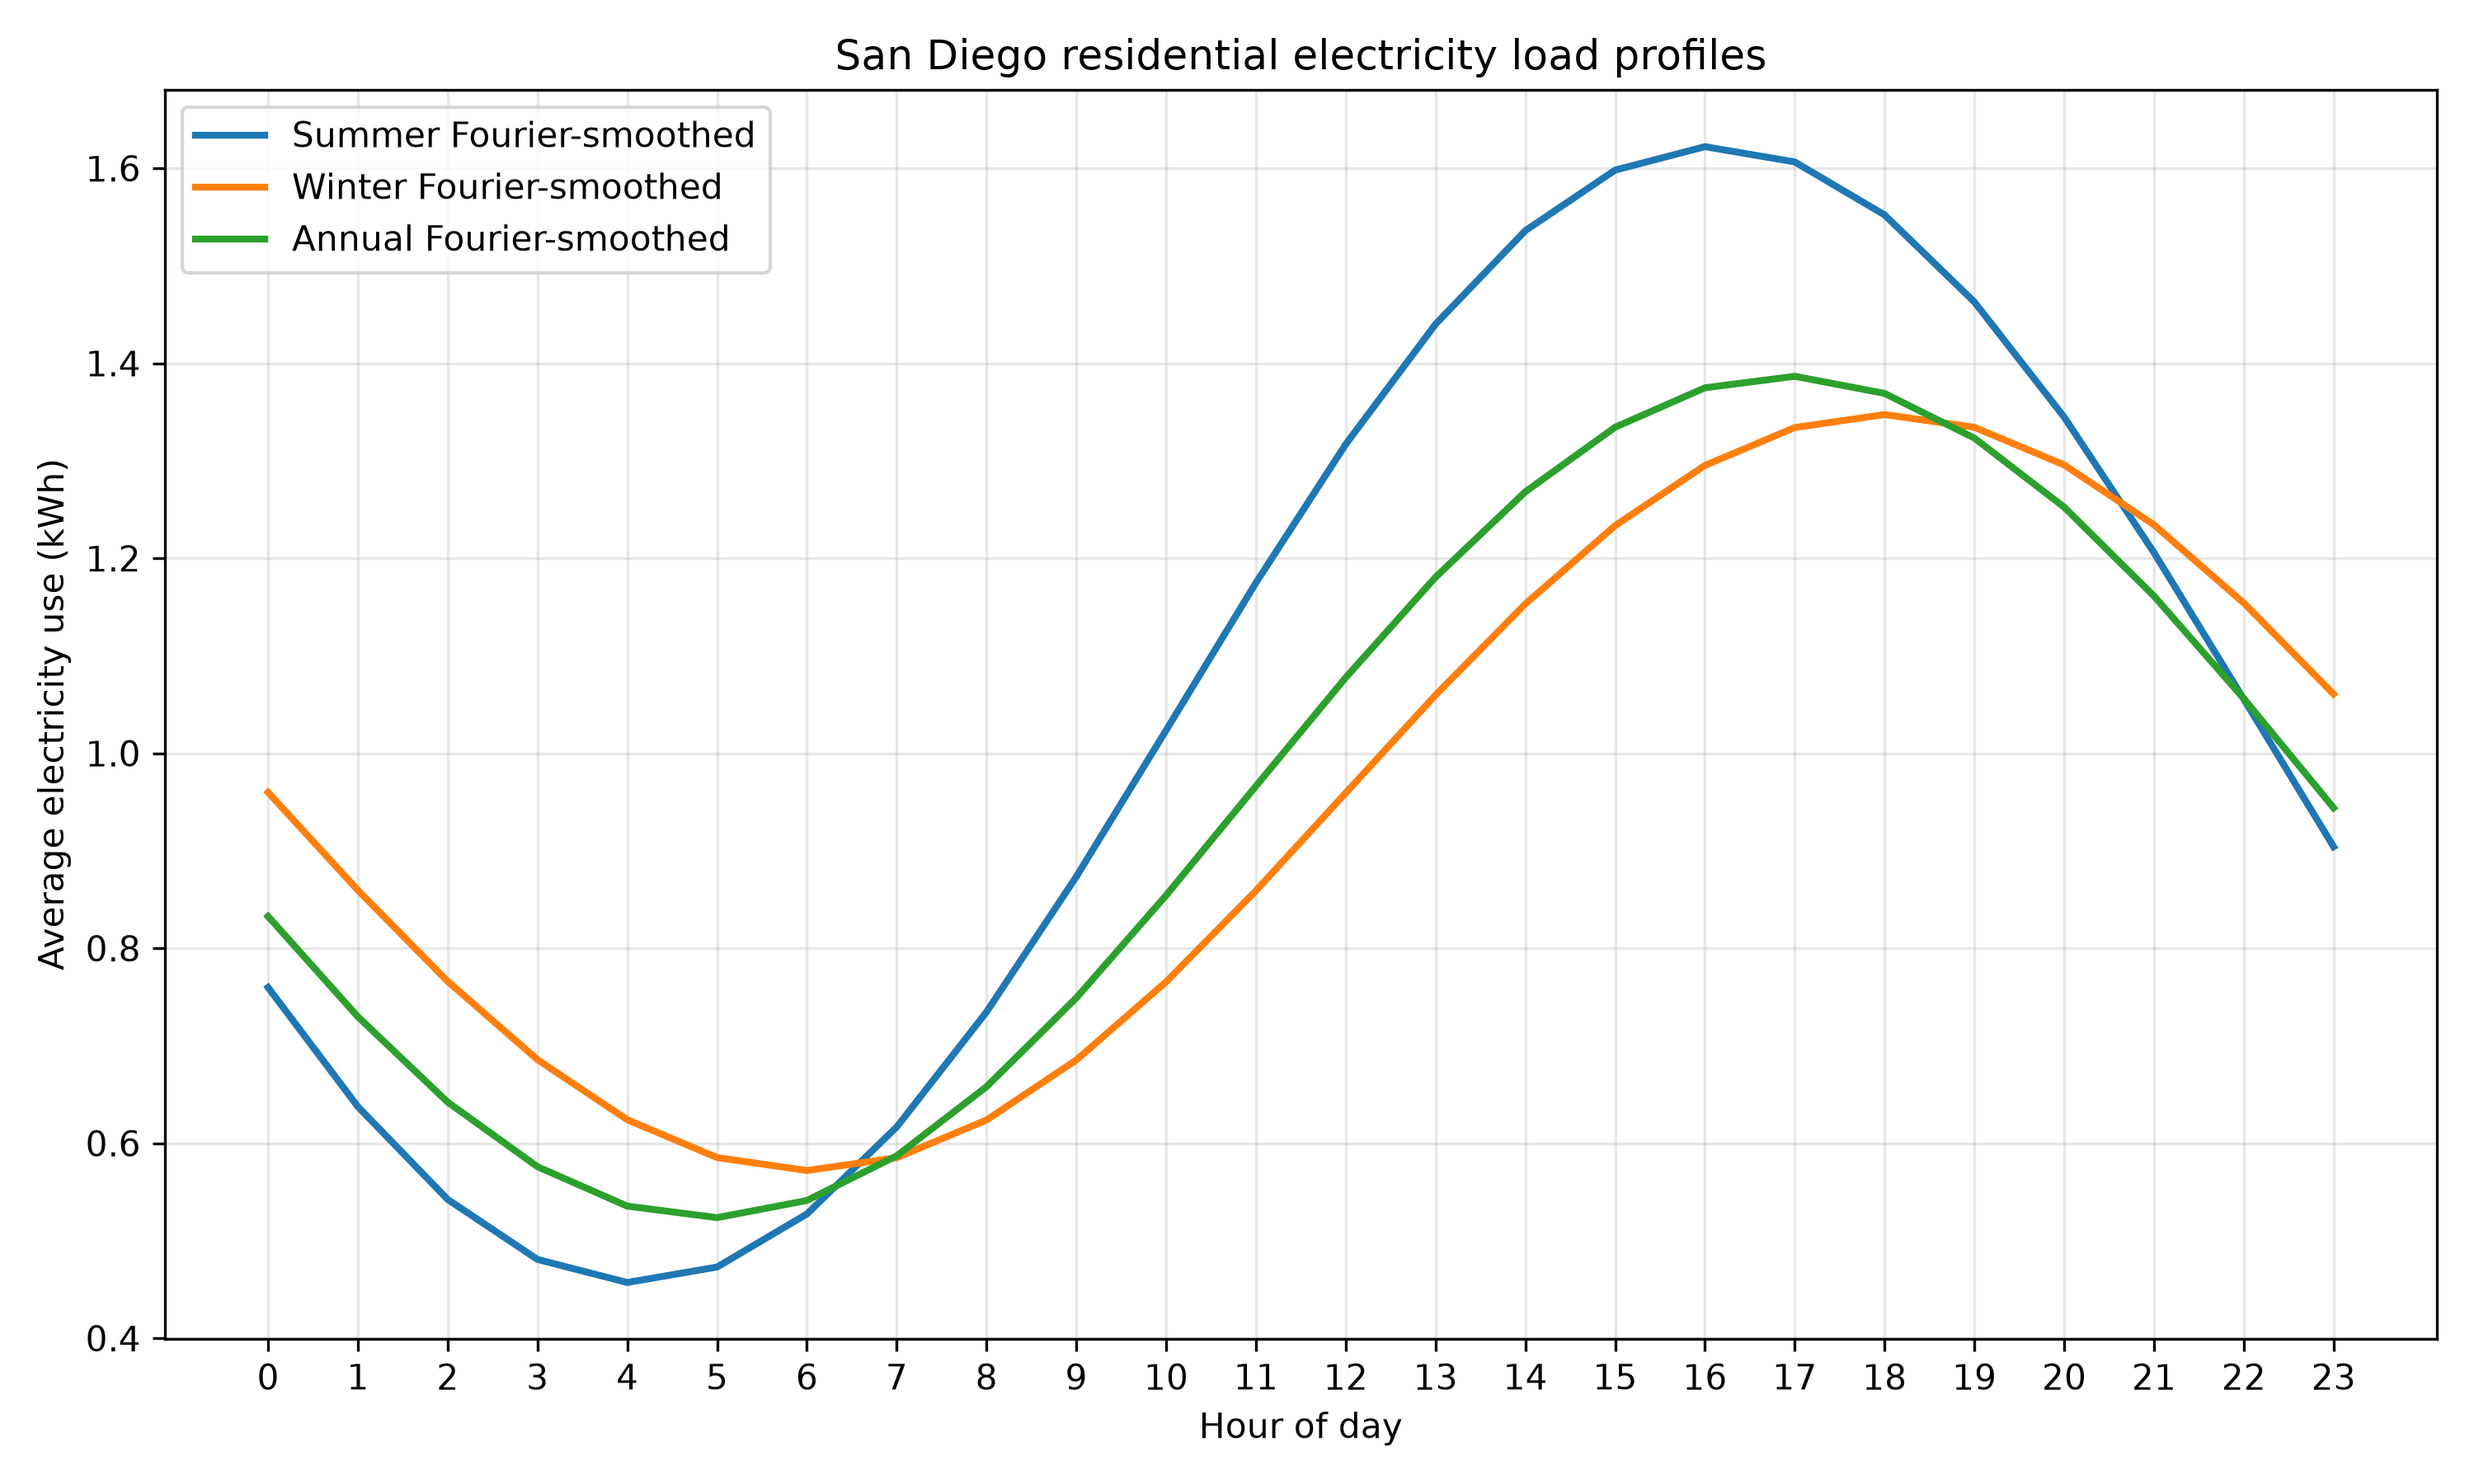
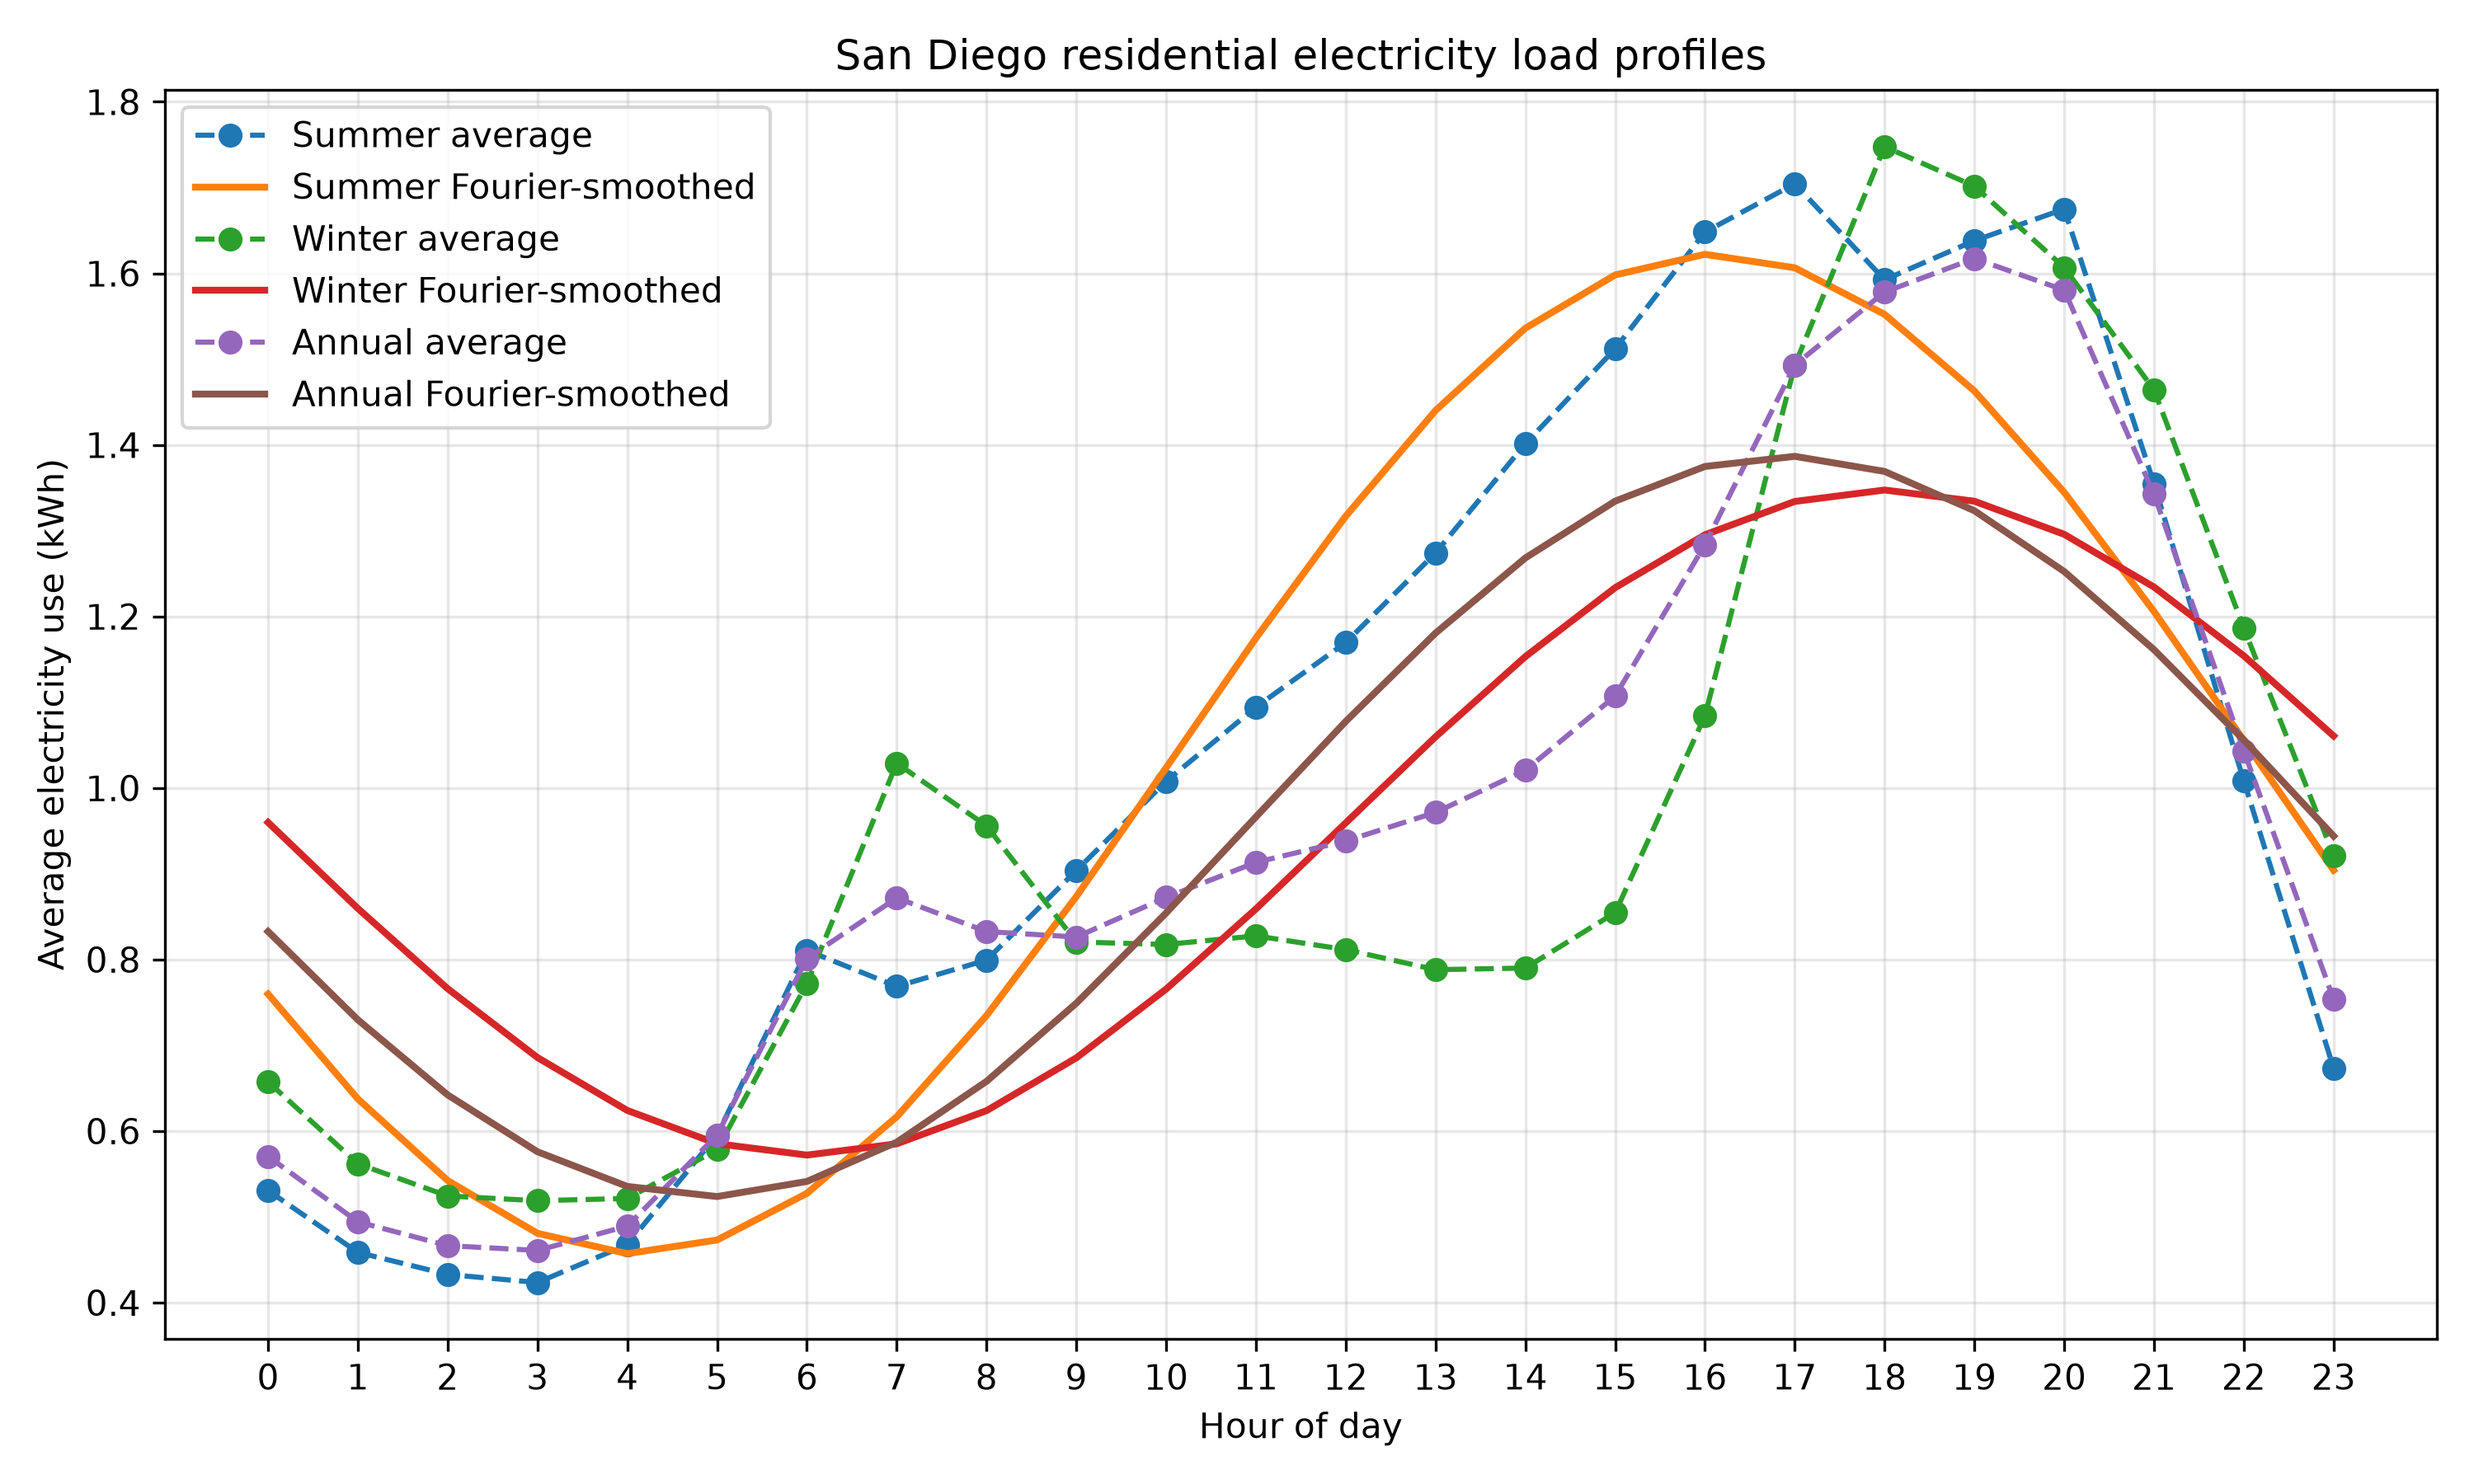
updates to fourier load and how export credits are calculated

diff --git a/savings_model/export_prices.py b/savings_model/export_prices.py
@@ -1,4 +1,5 @@
 import pandas as pd
+import matplotlib.pyplot as plt
 
 df = pd.read_csv("Current Year NBT Pricing Upload MIDAS.csv")
 
@@ -6,9 +7,7 @@ df.columns = df.columns.str.strip() # get rid of whitespace
 
 df["DateStart"] = pd.to_datetime(df["DateStart"], errors="coerce") # convert invalid values to just NaT
 
-start_year = df["DateStart"].dt.year.min()
-
-df = df[df["DateStart"].dt.year < start_year + 9] # legacy pricing only applies to next 9 years, only keep those
+df = df[df["DateStart"].dt.year.isin([2026, 2027, 2028])]
 df["month"] = df["DateStart"].dt.month
 
 # extract hour
@@ -54,9 +53,6 @@ winter_profile.rename(
     inplace=True
 )
 
-print(summer.groupby("hour")["Value"].agg(["min", "max", "mean", "std"]))
-print(winter.groupby("hour")["Value"].agg(["min", "max", "mean", "std"]))
-
 summer_profile.to_csv(
     "summer_export_profile.csv",
     index=False
@@ -67,44 +63,32 @@ winter_profile.to_csv(
     index=False
 )
 
-import matplotlib.pyplot as plt
-
 summer["year"] = summer["DateStart"].dt.year
 
-plt.figure(figsize=(10,6))
+plt.figure(figsize=(8,5))
 
-for year in sorted(summer["year"].unique()):
-    profile = (
-        summer[summer["year"] == year]
-        .groupby("hour")["Value"]
-        .mean()
-    )
+plt.plot(
+    summer_profile["hour"],
+    summer_profile["export ($/kWh)"],
+    linewidth=2,
+    label="Summer",
+    color="salmon"
+)
 
-    plt.plot(profile.index, profile.values, label=year)
-
-plt.xlabel("Hour")
-plt.ylabel("Export Credit ($/kWh)")
-plt.title("Summer Weekday Export Profiles by Year")
-plt.grid(True)
-plt.legend(title="Year", ncol=3)
-plt.savefig("summer_profiles", dpi=300)
-
-winter["year"] = winter["DateStart"].dt.year
-
-plt.figure(figsize=(10,6))
-
-for year in sorted(winter["year"].unique()):
-    profile = (
-        winter[winter["year"] == year]
-        .groupby("hour")["Value"]
-        .mean()
-    )
-
-    plt.plot(profile.index, profile.values, label=year)
+plt.plot(
+    winter_profile["hour"],
+    winter_profile["export ($/kWh)"],
+    linewidth=2,
+    label="Winter",
+    color="mediumseagreen"
+)
 
 plt.xlabel("Hour")
 plt.ylabel("Export Credit ($/kWh)")
-plt.title("Winter Weekday Export Profiles by Year")
+plt.title("Average Hourly Export Credit Rate (2026–2028)")
+plt.xticks(range(0, 24))
 plt.grid(True)
-plt.legend(title="Year", ncol=3)
-plt.savefig("winter_profiles.png", dpi=300)
+plt.legend()
+plt.tight_layout()
+
+plt.savefig("export_profile_2026_2028.png", dpi=300)

diff --git a/savings_model/fourier_load.py b/savings_model/fourier_load.py
@@ -183,13 +183,13 @@ print(summary)
 
 plt.figure(figsize=(10, 6))
 
-#plt.plot(
-    #summer["hour"],
-    #summer["load_kwh"],
-    #marker="o",
-    #linestyle="--",
-    #label="Summer average"
-#)
+plt.plot(
+    summer["hour"],
+    summer["load_kwh"],
+    marker="o",
+    linestyle="--",
+    label="Summer average"
+)
 
 plt.plot(
     summer["hour"],
@@ -198,13 +198,13 @@ plt.plot(
     label="Summer Fourier-smoothed"
 )
 
-#plt.plot(
-    #winter["hour"],
-    #winter["load_kwh"],
-    #marker="o",
-    #linestyle="--",
-    #label="Winter average"
-#)
+plt.plot(
+    winter["hour"],
+    winter["load_kwh"],
+    marker="o",
+    linestyle="--",
+    label="Winter average"
+)
 
 plt.plot(
     winter["hour"],
@@ -213,13 +213,13 @@ plt.plot(
     label="Winter Fourier-smoothed"
 )
 
-#plt.plot(
-    #annual["hour"],
-    #annual["load_kwh"],
-    #marker="o",
-    #linestyle="--",
-    #label="Annual average"
-#)
+plt.plot(
+    annual["hour"],
+    annual["load_kwh"],
+    marker="o",
+    linestyle="--",
+    label="Annual average"
+)
 
 plt.plot(
     annual["hour"],
